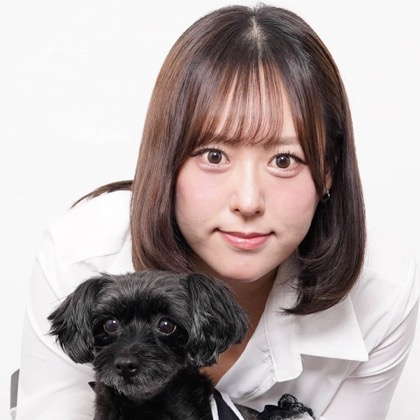
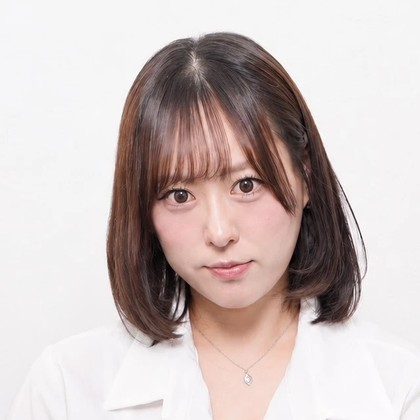
社員紹介の写真を3人とも差し替え

diff --git a/careers.html b/careers.html
@@ -368,9 +368,9 @@
 (() => {
   /* ===== メンバー（まだ無いので仮の枠）— 人数を変えるときはここを増減。項目と順番は決定どおり ===== */
   const MEMBERS = [
-    { initial: 'M.A', photo: 'assets/img/members/m1.jpg', reason: '社長との出会いで人としても成長していきたいと思ったから。', work: 'フランチャイズ総合代理店案件の商談担当（FS）', good: '成果が報酬に直結することで自身の成長をより実感できる環境。' },
-    { initial: 'Y.E', photo: 'assets/img/members/m2.jpg', reason: '趣味やプライベートの時間を確保しながら稼ぎたいと思ったから。', work: '企業とインサイドセールス人員のマッチング事業における管理者業務（NODE事業部）', good: 'プライベートを確保しつつ、安定した報酬を稼ぎ続けられる環境であること。' },
-    { initial: 'A.Y', photo: 'assets/img/members/m3.jpg', reason: '子育てと仕事の両立が可能な会社で今までのテレアポ経験を活かしたいと思ったから。', work: 'インサイドセールス（IS）', good: '子育てと仕事の両立が叶って効率良く稼ぐことができる。' },
+    { initial: 'M.A', photo: 'assets/img/members/m1.jpg?v=2', reason: '社長との出会いで人としても成長していきたいと思ったから。', work: 'フランチャイズ総合代理店案件の商談担当（FS）', good: '成果が報酬に直結することで自身の成長をより実感できる環境。' },
+    { initial: 'Y.E', photo: 'assets/img/members/m2.jpg?v=2', reason: '趣味やプライベートの時間を確保しながら稼ぎたいと思ったから。', work: '企業とインサイドセールス人員のマッチング事業における管理者業務（NODE事業部）', good: 'プライベートを確保しつつ、安定した報酬を稼ぎ続けられる環境であること。' },
+    { initial: 'A.Y', photo: 'assets/img/members/m3.jpg?v=2', reason: '子育てと仕事の両立が可能な会社で今までのテレアポ経験を活かしたいと思ったから。', work: 'インサイドセールス（IS）', good: '子育てと仕事の両立が叶って効率良く稼ぐことができる。' },
   ];
   const Q = [['reason', '働くことになったきっかけ'], ['work', '今の仕事内容'], ['good', 'Insupで良かったこと']];
 
